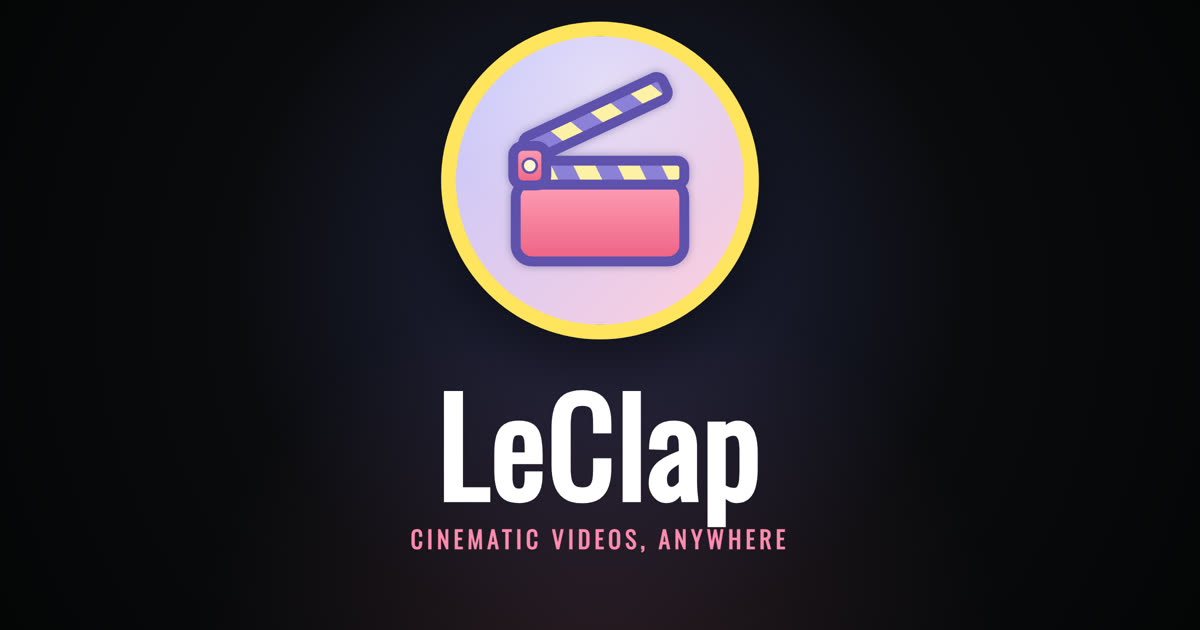
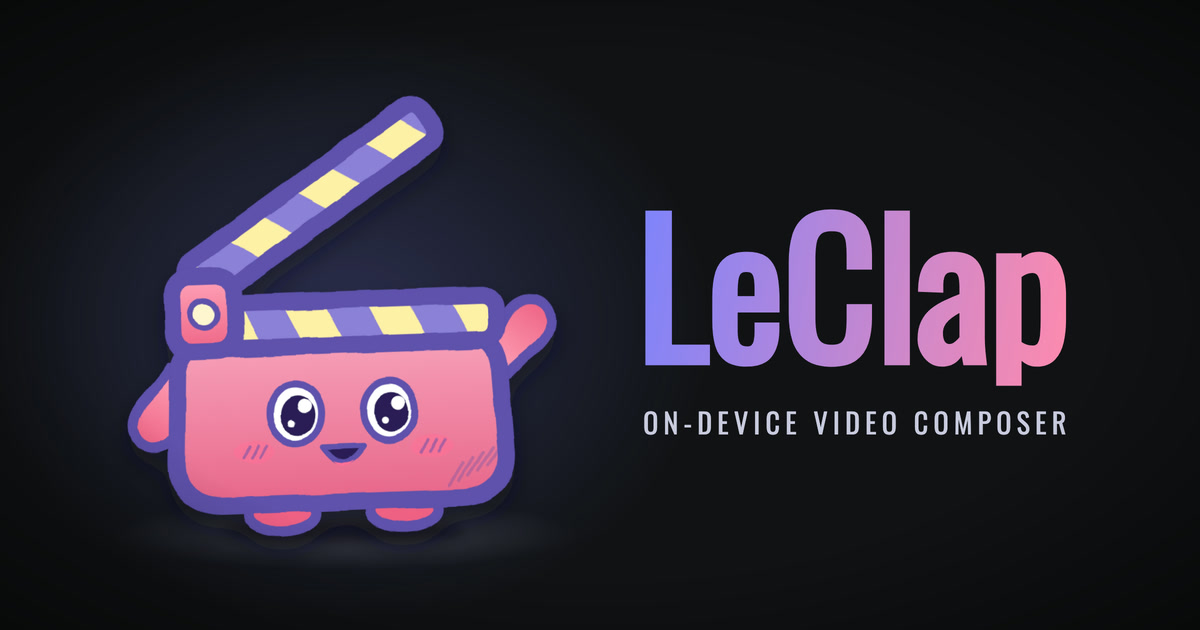
feat(web): put clappy on the social cards

diff --git a/apps/leclap-web/index.html b/apps/leclap-web/index.html
@@ -40,7 +40,7 @@
     <meta property="og:image:type" content="image/jpeg" />
     <meta property="og:image:width" content="1200" />
     <meta property="og:image:height" content="630" />
-    <meta property="og:image:alt" content="LeClap — cinematic video composer running in the browser" />
+    <meta property="og:image:alt" content="Clappy, the LeClap mascot, waving beside the LeClap wordmark: on-device video composer" />
     <meta property="og:locale" content="en_US" />
 
     <!-- Twitter -->
@@ -51,7 +51,7 @@
       content="One JSON template, rendered in your browser, on your phone, or by your coding agent as a before/after video for its pull request. No uploads, no servers."
     />
     <meta name="twitter:image" content="https://leclap.dev/og-image.jpg" />
-    <meta name="twitter:image:alt" content="LeClap — cinematic video composer running in the browser" />
+    <meta name="twitter:image:alt" content="Clappy, the LeClap mascot, waving beside the LeClap wordmark: on-device video composer" />
 
     <!-- Fonts: Oswald is the primary UI face and is self-hosted (see @font-face in index.css), so we
          preload it on the critical path instead of pulling a render-blocking Google Fonts stylesheet —

diff --git a/apps/leclap-web/README.md b/apps/leclap-web/README.md
@@ -52,9 +52,11 @@ a compile end-to-end and hard-refresh a deep link (e.g. `/templates`) to confirm
 
 ### Social card
 
-`public/og-image.png` (2400×1260 — the recommended 1.91:1 ratio at 2× for high-DPI feeds,
-referenced by `index.html`/`Seo.tsx`) is rendered from the Remotion brand composition —
-regenerate it with `pnpm render:og` in the private leclap-brand-motion repo.
+`public/og-image.jpg` (1200×630, the 1.91:1 ratio link previews use, referenced by `index.html`/`Seo.tsx`)
+and the repo's GitHub social preview (`.github/media/social-preview.png`, 1280×640) are the same card —
+Clappy beside the wordmark — rendered from the Remotion composition: regenerate both with `pnpm render:og`
+in the private leclap-brand-motion repo. The GitHub one is uploaded by hand, in the repo's Settings → Social
+preview (there is no API for it).
 
 ---
 
